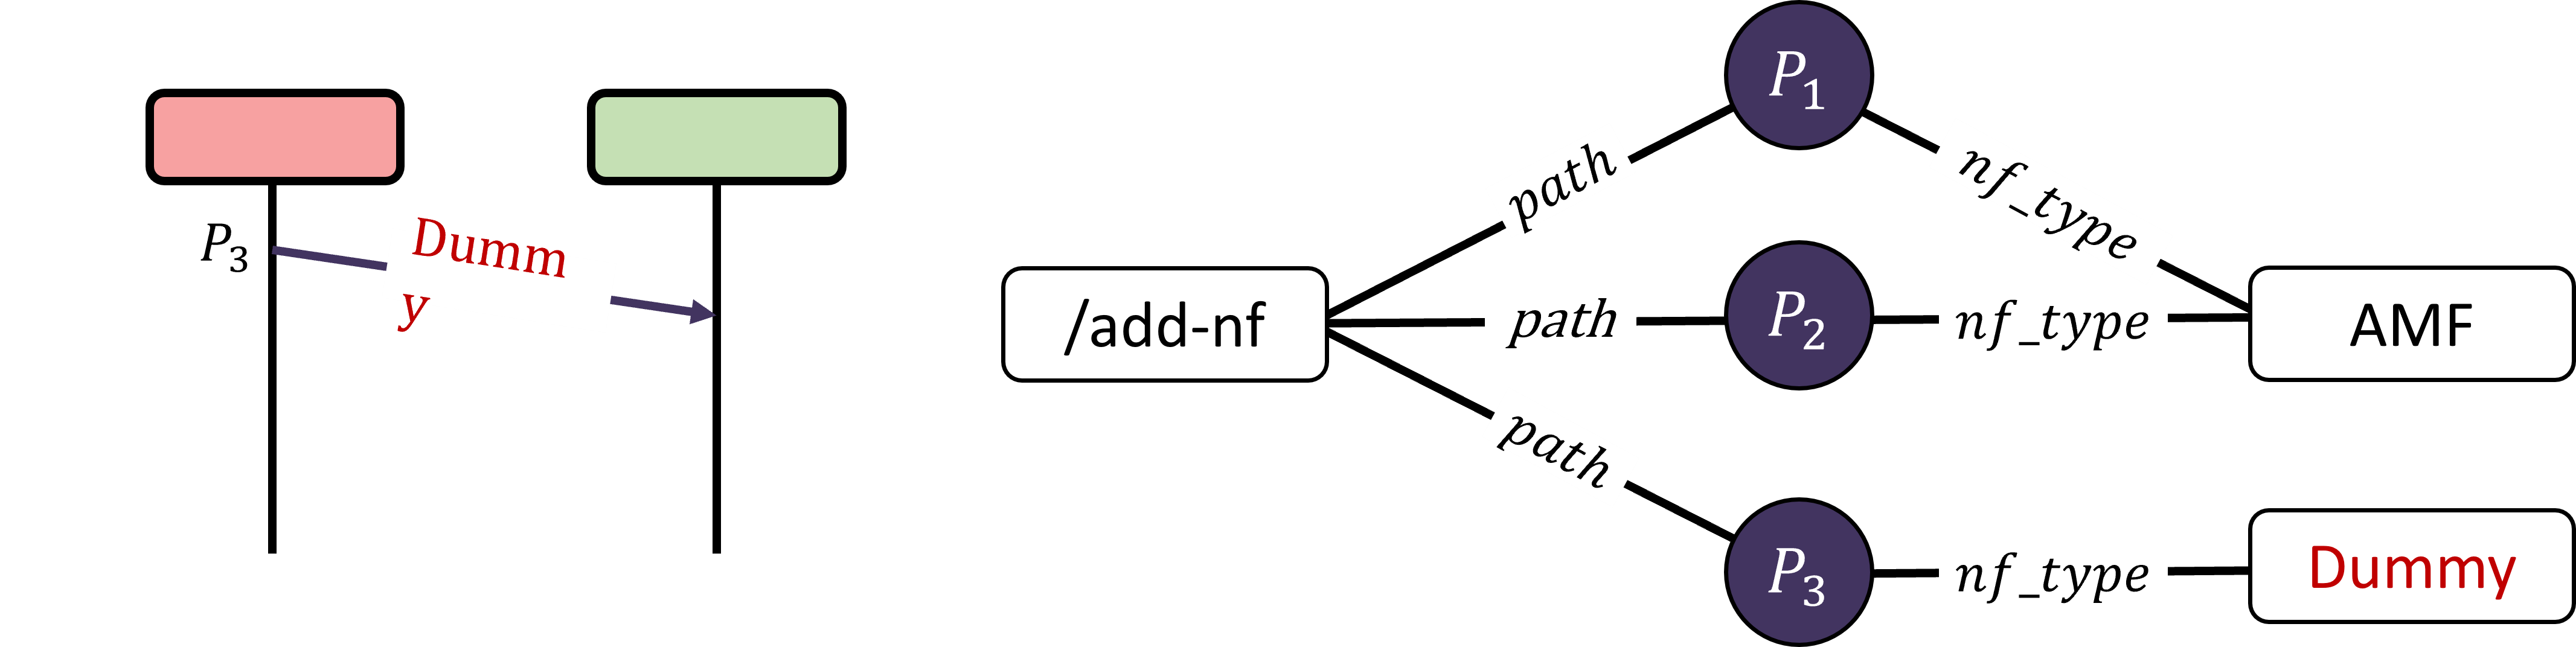
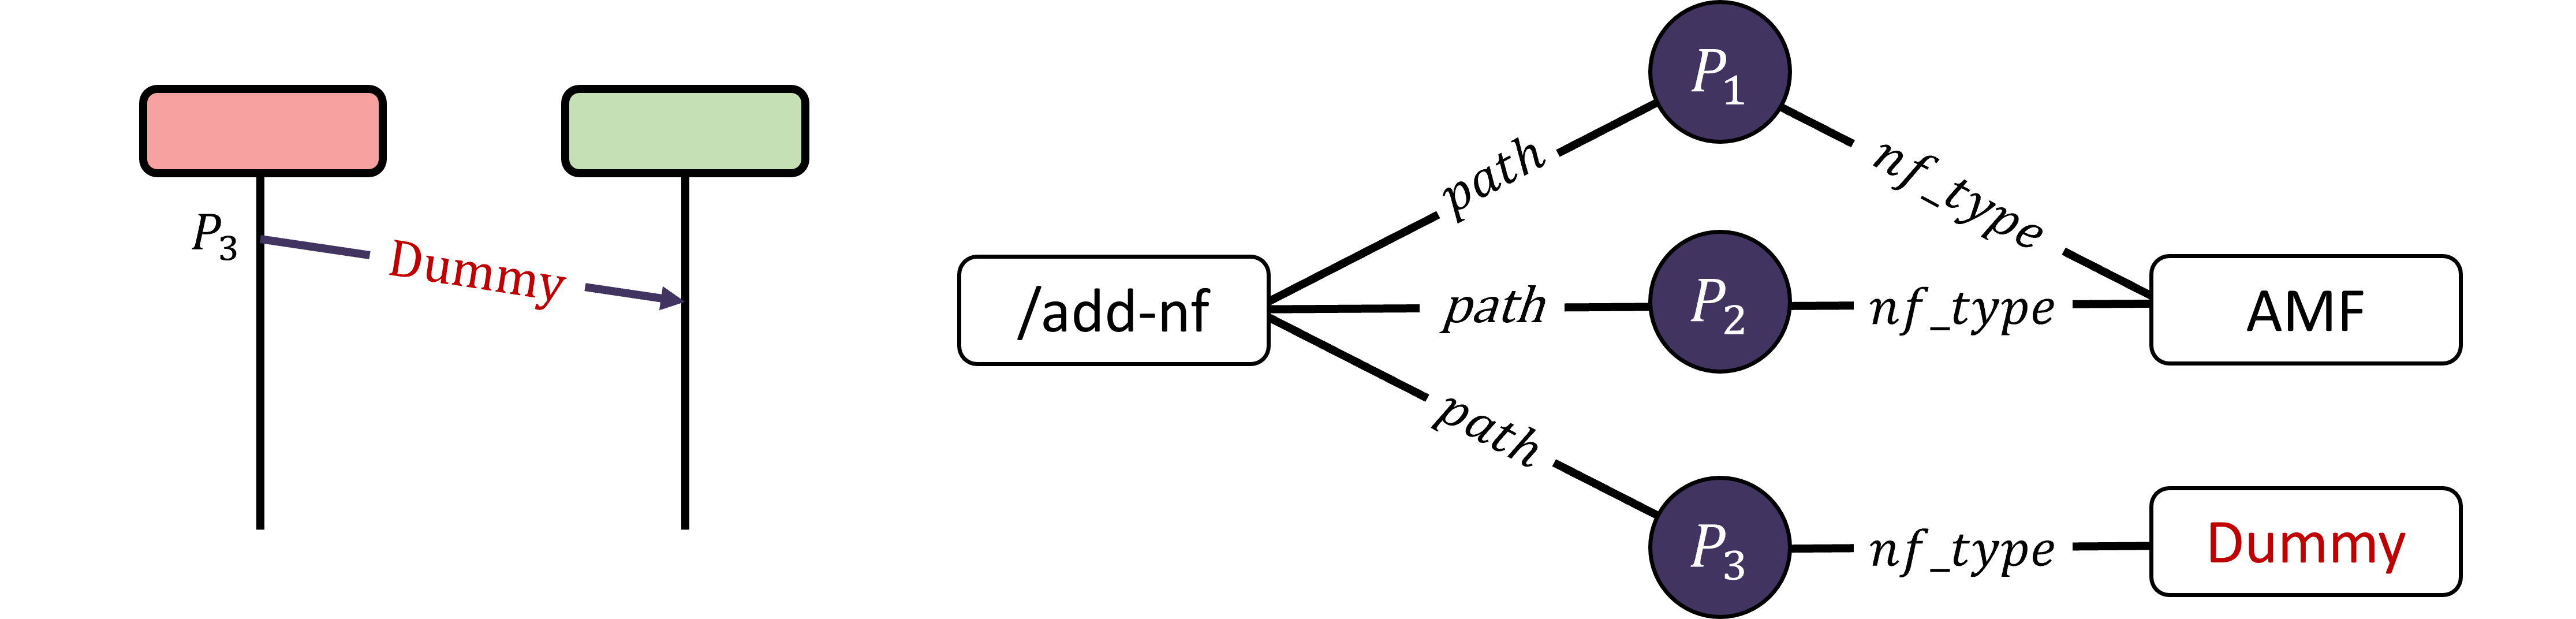
progression

diff --git a/Chapter3.tex b/Chapter3.tex
@@ -135,7 +135,7 @@ Dans la littérature des systèmes distribués, on retrouve également de nombre
 
 Enfin, une part importante des travaux de la littérature s'intéresse aussi aux GNN \cite{dist_gnn1,dist_gnn2} et plus spécifiquement sur des approches dynamiques\cite{taddy}. Cette convergence confirme que la modélisation par graphes constitue un cadre particulièrement pertinent pour capturer les interactions complexes au sein des systèmes distribués, en intégrant à la fois les dimensions structurelles et temporelles. 
 
-\subsection{Conclusion}
+\subsection{Synthèse}
 L’analyse de la littérature sur la détection d’anomalies réseau met en évidence que les approches traditionnelles ne sont pas adaptées à notre problématique, principalement en raison d’un niveau de granularité trop élevé qui empêche la capture de comportements subtils. En se focalisant sur des travaux spécifiquement dédiés à la 5G, on constate par ailleurs qu’aucune approche ne propose à ce jour un formalisme unifié permettant de prendre en compte simultanément les trois dimensions de détection définies dans ce travail. Néanmoins, plusieurs éléments issus de l’état de l’art convergent vers des directions prometteuses. En particulier, des travaux tels que GSAD, ainsi que les approches issues des systèmes distribués, montrent que les représentations par graphes et les GNN font désormais l’objet d’un consensus croissant. Ces modèles apparaissent comme des outils particulièrement adaptés pour représenter la structure complexe des interactions et pourraient constituer une base solide pour répondre à notre problématique.
 
 \section{Méthodologie de formalisation}
@@ -200,8 +200,16 @@ Sur la figure \ref{fig:graph_topological}, on observe un exemple d’attaque de 
 
 Enfin, sur la figure \ref{fig:graph_sequential}, on observe un exemple d’anomalie séquentielle. Dans ce cas, le contenu et les interactions des paquets sont normaux et la caractéristique anormale concerne uniquement leur ordre d'arrivée. Le problème est que le formalisme actuel ne modélise pas explicitement la dimension temporelle. Il serait possible de l’intégrer en ajoutant à chaque sous-graphe un nœud représentant le temps d’observation du paquet, mais avec cette approche la dimension temporelle serait confondue avec les autres paramètres, alors qu’elle est de nature distincte et particulièrement importante. Il est donc nécessaire de proposer une modélisation permettant d’intégrer le temps de manière plus explicite. 
 
-\subsection{Conclusion}
-Notre formalisme se distingue par sa capacité à mieux appréhender le contenu sémantique, un aspect souvent négligé dans l'état de l'art. Cependant, notre modélisation actuelle demeure statique et ne prend pas en compte la dimension temporelle. Dans le but de surmonter cette limitation, nous explorons les graphes dynamiques, qui intègrent nativement cette dimension temporelle, et dont nous présenterons les principes fondamentaux dans les sections suivantes.
+\subsection{Encodage des arcs et noeuds}
+
+Pour être exploitables par des modèles de détection, les nœuds ou des arêtes doivent être encodés sous forme de vecteurs numériques. Pour les arrêtes, le vecteur est construit à partir du nom du paramètre porté par l’événement, lequel est toujours de type textuel. Ces noms de paramètres sont considérés comme statiques, car ils dépendent de l’implémentation de l’infrastructure 5G au moment de l’entraînement du modèle. Ainsi, si le jeu de données d’entraînement est suffisamment exhaustif, il est possible de couvrir la majorité des noms de paramètres susceptibles d’apparaître. Cependant, lorsqu’un paramètre inconnu est rencontré, deux cas peuvent être envisagés. Il peut s’agir d’une évolution de l’implémentation, auquel cas des anomalies peuvent être observées de manière légitime tant que le modèle n’a pas été réentraîné. Il peut également s’agir d’une tentative d’attaque, par exemple via du fuzzing exploité à travers les appels API, introduisant des noms de paramètres inexistants. Dans ce cas, la présence de ces valeurs constitue une anomalie pertinente pour la détection. Ainsi, l’ensemble des valeurs d’arêtes peut être représenté par des encodages uniques, complétés par une représentation spécifique dédiée aux valeurs inconnues. Les méthodes d’encodage textuel utilisables pour cela sont détaillées dans la section suivante.
+
+Pour les nœuds, le vecteur peut être construit à partir de la valeur du paramètre associé. Ces valeurs peuvent correspondre aussi bien à des variables catégorielles, comme des méthodes HTTP, qu’à des identifiants uniques, comme des adresses IP. L’analyse de l’échantillon collecté dans notre jeu de données montre qu’environ 90\% des valeurs de paramètres correspondent à des identifiants uniques. Si les données ne contenaient que des variables catégorielles, un encodage classique de type one-hot aurait pu être utilisé. Toutefois, cette approche n’est pas adaptée ici, car les identifiants sont générés dynamiquement au cours de l’exécution du système et ne peuvent donc pas être exhaustivement connus lors de l’entraînement. Une autre possibilité serait d’utiliser des méthodes issues du traitement automatique du langage naturel (NLP) afin de rapprocher sémantiquement les valeurs textuelles. Cependant, les identifiants, tels que les addresses IP, ne correspondent généralement pas à des mots porteurs de sens linguistique. Il faudrait alors définir des mécanismes d’encodage spécifiques pour chaque type d’identifiant, ce qui ne serait ni scalable ni cohérent avec la nature dynamique des infrastructures 5G. La solution la plus simple consiste donc à ne pas prendre en compte l’information portée par les valeurs des paramètres. Dans le cas des identifiants uniques, leur valeur intrinsèque présente de toute façon peu d’intérêt. De même, pour les variables catégorielles, la sémantique d’un nœud peut être inférée à travers l’analyse de la structure du graphe, comme illustré dans la figure \ref{fig:graph_semantic} présentée précédemment.
+
+Dans nos représentations, seule l’information portée par les arêtes sera donc conservée explicitement. L’information associée aux nœuds pourra quant à elle être reconstruite implicitement par le GNN à travers les convolutions successives et l’agrégation des informations de voisinage.
+
+%\subsection{Synthèse}
+%Notre formalisme se distingue par sa capacité à mieux appréhender le contenu sémantique, un aspect souvent négligé dans l'état de l'art. Cependant, notre modélisation actuelle demeure statique et ne prend pas en compte la dimension temporelle. Dans le but de surmonter cette limitation, nous explorons les graphes dynamiques, qui intègrent nativement cette dimension temporelle, et dont nous présenterons les principes fondamentaux dans les sections suivantes.
 
 \section{Détection d’anomalies dans des graphs}
 
@@ -315,7 +323,7 @@ L’autre approche non supervisée couramment utilisée pour la détection d’a
 Parmi les deux approches d'apprentissage non supervisées présentées, la prédiction d'arcs via l'auto-supervision semble plus facilement équilibrable, étant donné la nature binaire de la tâche. Cependant, la création d'arcs négatifs qui est nécessaire à l'auto-supervision est sujette à l'introduction de biais. En revanche, l'approche de reconstruction est moins susceptible à ces biais mais est plus difficile à guider.
 
 \subsection{Formalismation adapté à l'utilisation de GNN dynamiques}
-Pour considérer la dimension temporel et détecter les attaques d'inondation ou à plusieurs étapes, il faut intégrer l'information temporel à notre détection et donc considérer les graphs dynamiques. On pourrait utiliser les graphs dynamiques discrets et c'est ce que fait d'ailleurs GSAD \cite{gsad}. Cette façon de gérer les graphes dynamiques est facile à comprendre et à implémenter, car les captures à intervalle régulier de l'état du graph forment une séquence de graphs indépendants sur lesquels on peut appliquer les GNN traditionnels sans modification majeure. Leur principal inconvénient est qu'ils sont très lourds et peu efficaces pour détecter les dépendances sur de longues périodes.
+Pour considérer la dimension temporel et détecter les attaques d'inondation ou à plusieurs étapes, il faut intégrer l'information temporel à notre détection et donc considérer les graphs dynamiques. Une solution serait d'utiliser les graphs dynamiques discrets, c'est d'ailleurs l'approche qu'emploie GSAD \cite{gsad}. Cette façon de gérer les graphes dynamiques est facile à comprendre et à implémenter, car les captures à intervalle régulier de l'état du graph forment une séquence de graphs indépendants sur lesquels on peut appliquer les GNN traditionnels sans modification majeure. Néanmoins, leur principal inconvénient est qu'ils sont très lourds et peu efficaces pour détecter les dépendances sur de longues périodes.
 
 \begin{figure}[h]
 \centering
@@ -363,7 +371,7 @@ où $u \in \mathcal{V}_c$ désigne un nœud central, $v_i \in \mathcal{V}_f$ un 
 Cette formulation nécessite d’adapter les algorithmes classiques utilisés dans les GNN, mais elle permet une représentation beaucoup plus fine, dans laquelle aucune information temporelle n’est perdue. La figure \ref{fig:graph_continu} illustre la transformation d'une forme de graphe statique à celle d'un graphe dynamique continu.
 
 \subsection{Fonctionnement détaillé des GNN dynamique}
-Dans leurs travaux, Rossi et al. \cite{tgn} proposent un cadre de formalisation des GNN dynamiques, permettant de représenter les travaux de l'état de l'art comme des spécifications de leur modèle. Nous nous appuierons sur ce framework pour présenter et comprendre le fonctionnement d'un GNN dynamique. La figure \ref{fig:tgn} illustre les quatre modules principaux définis par TGN \cite{tgn} : un module de mémoire, un module d’agrégation de messages, un module de mise à jour de la mémoire et un module d’inférence.
+Dans leurs travaux, Rossi et al. \cite{tgn} proposent un cadre de formalisation des GNN dynamiques, permettant de représenter les travaux de l'état de l'art comme des spécifications de leur modèle. Nous nous appuierons sur ce cadre pour présenter et comprendre le fonctionnement d'un GNN dynamique. La figure \ref{fig:tgn} illustre les quatre modules principaux définis par TGN \cite{tgn} : un module de mémoire, un module d’agrégation de messages, un module de mise à jour de la mémoire et un module d’inférence.
 
 \begin{figure}[h]
 \centering
@@ -411,8 +419,8 @@ L’encodeur est le module chargé de calculer la représentation des nœuds à 
 
 Pour les modèles \textit{attn} et \textit{sum}, un encodage temporel de type \textit{Time2Vec} est utilisé afin de représenter les écarts temporels entre interactions. Ces méthodes permettent également de limiter le problème de \textit{staleness} en mettant à jour les représentations grâce aux informations des voisins récents.
 
-\subsubsection{Conclusion}
-Nous avons présenté dans cette section le fonctionnement détaillé des GNN Dynamiques. Toutefois, il s’agit d’un cadre de fonctionnement général, alors que notre problématique est plus spécifique et nécessite la mise en œuvre de plusieurs ajustements méthodologiques.
+% \subsubsection{Conclusion}
+% Nous avons présenté dans cette section le fonctionnement détaillé des GNN Dynamiques. Toutefois, il s’agit d’un cadre de fonctionnement général, alors que notre problématique est plus spécifique et nécessite la mise en œuvre de plusieurs ajustements méthodologiques.
 
 \subsection{Adaptation à notre cas d'utilisation}
 Pour mieux répondre à notre problématique, nous proposons deux ajustements justifiés par notre cadre d’utilisation. Dans un premier temps, nous supprimons l’information temporelle explicite des messages. Dans un second temps, nous adaptons le mécanisme d’agrégation standard en une version spécifique, conçue pour notre structure bipartite.
@@ -468,26 +476,90 @@ EGAT\cite{egat} propose de donner plus d'importance à l’information portée p
 
 Ces différentes approches montrent que plusieurs extensions de la formalisation initiale sont envisageables. Néanmoins, bien qu’elles présentent des avantages évidents, elles soulèvent des problèmes structurels et computationnels qui empêchent leur intégration à notre formalisation.
 
-\section{Encodage des paramètres de dimension non-fini (NLP)}
+\section{Encodage des paramètres de dimension non-fini}
 
-% comme mentionné dans la partie création de message, il est nécessaire d'encoder les informations contenus dans les arcs. Le problème c'est qu'on a un nombre indénombrable de paramètres potentiels, principalement à cause de l'utilisation d'appels d'API qui n'ont pas de champs d'entrée restreints. Donc on a un espace d'entrée de dimension infini qu'il faudrait pouvoir projeter dans un espace de dimension fini c'est à dire un vecteur de taille fixe 
+% Intro encodage
+Comme mentionné dans la section relative à la construction des messages, il est nécessaire d’encoder les informations contenues dans les arcs. Les paquets réseaux 5G comportent un très grand nombre de paramètres, ce qui conduit à un espace d’entrée de très grande dimension. Dans le cadre d’une approche de détection de type \textit{zero-day} basée sur l’apprentissage non supervisé, il est essentiel de pouvoir représenter l’ensemble des attributs potentiellement observables, dans la mesure où il est impossible d’anticiper a priori lesquels pourront être exploités par de futures attaques. Cette situation implique la manipulation d’un espace de représentation de très grande dimension, susceptible d’entraîner le phénomène de la \textit{malédiction de la dimensionnalité (curse of dimensionality)}, qui se caractérise par une dégradation de la généralisabilité lorsque la dimension de l'entrée est trop grande. Par conséquent, il est nécessaire de réduire la dimension de cet espace d'entrée afin de le rendre exploitable par les modèles d’apprentissage GNN mentionnés précédemment. 
 
-% Pour ça on a regardé du côté des NLP qui permettent justement d'apprendre la sémantique d'un texte et créer un espace latent ordonné où une proximité sémantique se traduirait par une proximité dans cet espace. C'est particulèrement intéressant parce que on a beaucoup de redondance entre certains pparamètres comme \textit{source-ip} et \textit{destination-ip}, qui pourrait ainsi possèder des représentations relativement similaires dans l’espace latent. 
+\section{Techniques de Traitement du Langage Naturel (NLP)}
 
-% le probleme c'est que y'a des parametres comme les ip ou le path qui sont importants pour détecter beaucoup d'attaques mais y'a aussi des paramètres qui sont utiles que pour des attaques spécifiques. y'a aussi pas mal de parametres qui pourraient être utilisés pour détecter des attaques futures mais qui pour l'instant sont pas utils pour celles qu'on a. Mais, un trop grand the number of features can hinder the learning process by introducing noise and increasing model complexity
+% Intro NLP
+Pour répondre à ce problème, nous nous sommes intéressés à des approches issues du traitement automatique du langage naturel (NLP), traditionnellement utilisées pour des tâches telles que la traduction automatique, la classification de documents, la détection d’intention ou encore la reconnaissance d’entités nommées. Dans ces applications, les modèles sont entraînés à apprendre une représentation sémantique des données textuelles, sous la forme d’un espace latent structuré dans lequel une proximité géométrique reflète une proximité sémantique. Dans ce travail, nous cherchons à exploiter directement la structure de l’espace latent afin d’associer à n’importe quel paramètre une représentation vectorielle pertinente.
+
+\begin{figure}[h]
+    \centering
+    \includegraphics[width=0.7\linewidth]{figures/chapter3/pca_simple.png}
+    \caption{Projection en deux dimensions d’un espace latent représentant un vocabulaire anglais, obtenue par analyse en composantes principales (PCA).}
+    \label{fig:pca_simple}
+\end{figure}
+
+% PCA T-SNE
+Pour évaluer la qualité de cette structuration, deux approches complémentaires sont généralement utilisées et reposent sur une interprétation humaine. La première consiste à examiner, au cas par cas, les voisins les plus proches d’un mot donné dans l’espace d’embedding. La seconde consiste à projeter cet espace de haute dimension dans un espace à deux dimensions afin d’en permettre une visualisation globale. Les méthodes les plus couramment utilisées pour cela sont la PCA et le t-SNE, qui représentent respectivement une projection linéaire conservant la structure globale, et une projection stochastique visant à préserver les similarités locales. La figure \ref{fig:pca_simple} illustre un exemple de projection PCA d’un vocabulaire générique encodé avec FastText que nous allons présenter ensuite.
+
+% One Hot
+Nous notre but c'est de pouvoir encoder des mots individuellement. Pour ça la méthode la plus simple c'est de faire du one-hot encoding, c'est à dire d'associer à chaque mot à une dimension d'un vecteur. Chaque mot est donc représenté par un vecteur orthogonal. Le fait d'avoir des embeddings unique à chaque mot laisse au GNN suivant la responsabilité de leur donner de la sémantique. Un inconvénient c'est on part de 0 et on pourrait réfléchir à donner un petit coup de pouce au GNN en donnant un peu de base sémantique aux paramètres avec du NLP. L'autre inconvénient majeur est que pour avoir des vecteurs orthogonaux il faut que la dimension de l'espace d'embedding égale à la taille du vocabulaire.
+
+% Hashing Trick
+Afin de pallier ce problème, des techniques comme le hashing trick projettent les termes dans un espace de dimension fixe à l’aide d’une fonction de hachage. Cette approche permet de contrôler la taille des représentations indépendamment du vocabulaire, mais introduit des collisions. Ainsi, plusieurs termes distincts peuvent obtenir des encodages similaires, ce qui peut induire des proximités artificielles dans l’espace vectoriel. Le hashing trick et le one-hot encoding ont l’avantage d’être simples et rapides à grande échelle, mais ne capturent pas la dimension sémantique des mots qu'ils encodent.
+
+\begin{figure}[h]
+    \centering
+    \includegraphics[width=\linewidth]{figures/chapter3/word2vec.png}
+    \caption{Illustration de l'architecture de Word2Vec à travers les modèles Continuous Bag of Words (CBOW) et Skip-Gram, appliqués au mot cible \textit{lie} dans la phrase \textit{The biggest lie ever told}.}
+    \label{fig:word2vec}
+\end{figure}
+
+% Word2Vec 
+Les approches de deep learning permettent justement d’apprendre la sémantique des mots à partir de leur contexte d’utilisation. L’idée principale est qu’un mot peut être compris en observant les mots qui l’entourent dans une phrase ou un corpus. C'est ce que fait Word2Vec\cite{word2vec} qui est constitué de deux modèles qu'il entraine en parallèle, un Continuous BoW (CBOW) qui vise à prédire un mot à partir de son contexte et un Skip-Gram qui, de façon symétrique, vise à prédire les mots du contexte en connaissant un mot en entrée. 
+
+% GloVe
+Néanmoins, comme il apprend sur des fenêtres de contexte locales, Word2Vec ne dispose pas d’une vision globale du corpus. Cette limitation est adressée par GloVe (Global Vectors for Word Representation) \cite{glove}, qui apprend à minimiser la distance entre le produit scalaire de deux vecteurs et le logarithme de leur fréquence de co-occurrence dans le corpus. Cependant, GloVe présente des limites dans le cas de langues à morphologie riche, ainsi que pour les mots rares.
+
+% FastText
+FastText \cite{fasttext} est justement une extension de Word2Vec qui cherche à découper un mot en sous-unités morphologiques. Contrairement à ce Word2vec, FastText ne considère pas un mot comme une entité atomique, mais le représente comme un ensemble de \textit{n-grammes} de caractères. Cette segmentation permet de partager des informations entre mots présentant des structures similaires. Dans notre cas, cela permet par exemple de décomposer \textit{servingNfId} en plusieurs sous-unités telles que \textit{serving}, \textit{Nf} et \textit{Id}. Chacun de ces segments peut alors porter une information sémantique propre et être réutilisé pour représenter d’autres paramètres partageant des sous-parties communes. Cependant, une limite importante de cette approche réside dans le caractère statique des embeddings. Chaque mot et n-gramme possède une représentation fixe, indépendante du contexte dans lequel il apparaît.
+
+% GPT & BERT
+Or, un mot peut être polysémique et donc avoir une sémantique variable en fonction de son contexte d’apparition. Afin de prendre en compte cette ambiguïté sémantique, on a vu l'arrivée de travaux utilisant des architectures de type Transformer, qui permettent d’apprendre des représentations contextuelles dynamiques. Ces modèles, tels que GPT \cite{gpt} et BERT \cite{bert}, utilisent des mécanismes d’attention pour modéliser les dépendances à long terme dans les séquences de texte, ce qui améliore significativement la qualité des représentations apprises. Le premier est basé sur un décodeur qui va analyser le contexte historique d'un mot pour prédire sa suite tandis que le second va prendre le contexte bidirectionnel et sera plus adapté à des tâches de compréhension du langage. Ces modèles sont la plupart du temps pré-entraînés sur de très grands corpus de texte, puis peuvent être adaptés à des tâches spécifiques par le biais d’une phase de fine-tuning. Cependant, leur complexité et leurs besoins en ressources computationnelles sont considérablement plus élevés que les modèles précédents.
+
+% Conclusion
+Parmi les approches proposées, GPT, BERT et leurs variantes respectives figurent parmi les modèles obtenant généralement les meilleures performances. Néanmoins, il convient de souligner que ces architectures ont été conçues pour des données textuelles naturelles et reposent sur des hypothèses implicites liées à la structure du langage humain. Dans le cadre de ce travail, le contexte considéré est sensiblement différent. Le vocabulaire manipulé est très spécifique, parfois constitué d’identifiants ou de chaînes non lexicalisées, et les paquets qui les contiennent diffèrent fortement de la structure d’une phrase naturelle. Dès lors, l’utilisation directe de modèles aussi complexes peut s’avérer disproportionnée au regard de la nature des données. Il apparaît donc nécessaire d’évaluer dans quelle mesure ces architectures peuvent être adaptées à ce type de données, et d’identifier les modèles offrant le meilleur compromis entre expressivité, robustesse et coût computationnel dans un contexte aussi spécifique.
+
+\subsection{Avantages, limites et opportunités d'application}
+
+Le fait d’obtenir une proximité géométrique entre des éléments présentant une similarité sémantique constitue une propriété particulièrement intéressante dans notre contexte. En effet, de nombreux paramètres présentent une forte redondance lexicale ou fonctionnelle, comme \textit{servingNfId} et \textit{nf-id}. Ces paramètres peuvent ainsi être associés à des représentations proches dans l’espace latent, ce qui contribue à réduire la complexité du vocabulaire. De plus, l’utilisation de techniques issues du traitement automatique du langage naturel (NLP) pour enrichir la représentation sémantique des vecteurs d’arêtes peut fournir une information inductive supplémentaire au GNN, facilitant ainsi l’apprentissage de relations complexes.
+
+.% Néanmoins, cette propriété introduit également une limite importante, dans la mesure où certaines similarités sémantiques ne doivent pas nécessairement se traduire par une proximité dans l’espace de représentation. Par exemple, des paramètres tels que \textit{source-ip} et \textit{destination-ip} jouent des rôles distincts au sein de la structure réseau et doivent être explicitement différenciés afin de permettre la détection d’anomalies topologiques pertinentes. Ca devrait aller 
+
+Pour réaliser l’embedding d’éléments textuels à l’aide de techniques de NLP, deux approches principales peuvent être envisagées. Utiliser direcectement des modèles pré-entraînés ou réaliser un fine-tuning pour l'adapter à notre vocabulaire. Dans notre cas, les paramètres à encoder correspondent davantage à des noms de variables qu’à des mots issus d’un langage naturel. Si un modèle pré-entrainé peut fonctionner pour certains termes proches du langage courant, tels que \textit{address}, il atteint rapidement ses limites pour des identifiants techniques comme \textit{avType} ou \textit{kausf}, ainsi que pour leurs sous-composants, qui ne correspondent pas à des unités lexicales connues. Il devient donc fondamentale de passer par une  phase de fine-tuning.
+
+
+
+% VERIF LES 3 DERNIERES
+Les principaux modèles de NLP apprennent la sémantique des mots à partir de leur contexte au sein de phrases. Or, dans notre cas, nous ne disposons pas naturellement de corpus sous cette forme. Il est toutefois possible de représenter les paquets comme des phrases et les paramètres comme des mots. Toutefois, cette approche reste imparfaite, car elle introduit implicitement une notion d’ordre et de position dans la phrase, qui n’a pas de signification dans notre cas. En effet, l’ordre des paramètres dans un paquet et leur proximité ne portent pas d’information pertinente. 
+
+Dans notre contexte, il est plus pertinent de considérer la compréhension d’un paramètre à travers les autres paramètres présents dans le même paquet, ce qui est précisément ce que permet déjà un GNN via les mécanismes de convolution et d’agrégation topologique. L’apport du NLP serait alors principalement complémentaire, en fournissant une initialisation sémantique aux représentations.
+
+Enfin, la principale difficulté liée à l’utilisation du NLP réside dans l’évaluation de ces représentations, qui n’est pas directement interprétable visuellement en haute dimension. Il sera donc nécessaire de recourir à une phase de validation empirique, qui sera détaillée dans le chapitre suivant.
+
+%(montrer PCA des deux)
+
+% Le fait de faire du NLP permet 1) d'ajouter un peu de sémantique inital et 2) de considérer tous les paramètres. 
+% 1) Mais la sémantique sera déjà gérée par le GNN donc pas forcément utile (et en plus ça peut induire des biais qu'on pourra pas forcément check vu que subjctif et pas de méthode de vérif auto)
+% 2) Sur tous les paramètres y'en a certains qui sont très rares et si on les à tous sans les pondérer d'une certaine manière bah on va se retrouver avec un espace d'embedding très bruité et pas forcément pertinent. 
+
+
+% le probleme surtout c'est que nlp trop semblable gnn, fait le même taff et lui vole le boulot. on se retruve avec des embeddings moins controlés et moins vérifiables qui vont repasser dans une moulinette qui fait la même chose
+
+%(faire l'état des lieux des méthodes de NLP et voir si y'en a pas certaiens qui font pas avec le contexte). REsttester aussi pour voir si le nlp galère vraiment ou pas a faire un embedding space cohérent avec les parametres qu'on a gardé.
+
+% Dans le cadre de la détection d’attaques connues, lorsque l’on souhaite conserver une certaine interprétabilité des résultats, il est possible de se limiter à un sous-ensemble de paramètres jugés pertinents pour identifier les attaques déjà observées. C’est l’approche retenue dans cette thèse.
 
 % !!!! expliquer (quelque part) pourquoi on prend pas la valeur du parametre (noeuds). Parce que soit on a des identifiants leur valeur osef, ce qu'on veut voir c'est leur réutilisation 
 % si on embed nodes ça fait aussi un pb avec les nodes centraux pck on peut pas les encoder comme 0 ou moyenne de tout au risque d'avoir une proximité sémantique artificielle
 
 
-
 % le nombre de noms de paramètres potentiellement observables dans le trafic 5G est extrêmement important, pouvant atteindre plusieurs centaines de milliers de features distinctes. Une approche naïve consisterait à représenter chaque paramètre par un vecteur orthogonal (\textit{one-hot encoding}), mais cela conduirait à des représentations de très grande dimension, peu efficaces en pratique.
 
-
-
-
-% https://www.researchgate.net/profile/Ghazal-Alinezhad-Noghre/publication/361206538_A_Comprehensive_Survey_of_Graph-based_Deep_Learning_Approaches_for_Anomaly_Detection_in_Complex_Distributed_Systems/links/63e3c966c002331f72626977/A-Comprehensive-Survey-of-Graph-based-Deep-Learning-Approaches-for-Anomaly-Detection-in-Complex-Distributed-Systems.pdf 
-% Shallow Embedding, Deep Embedding
 
 % on pourrait du coup donner un embedding initial aux noeuds grâce au nlp mais c'est chiant ausis
 